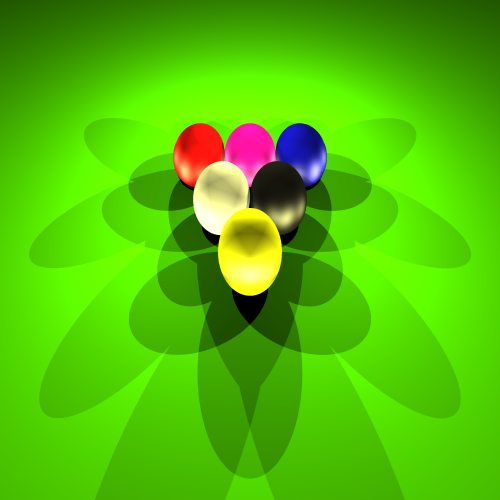
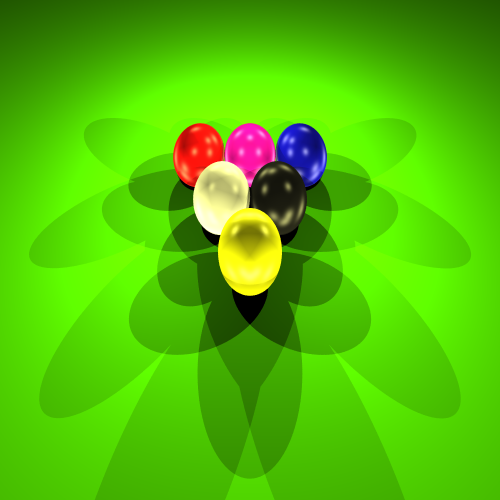
soft shadows

Changed region(s): [[0.33, 0.24, 0.66, 0.48], [0.45, 0.51, 0.57, 0.57], [0.6, 0.24, 0.63, 0.27]]

diff --git a/src/Objects/Light.java b/src/Objects/Light.java
@@ -1,6 +1,12 @@
 package Objects;
 
 import java.awt.Color;
+import java.util.ArrayList;
+import java.util.Random;
+import RayTracing.RayTracer;
+
+
+import javax.imageio.ImageIO;
 
 public class Light {
 	private Point position;
@@ -92,7 +98,50 @@ public class Light {
 
 		return (float) (surface.getMaterial().sb * Math.pow(rayFromViewer.getVector().dotProduct(R.getVector()), surface.getMaterial().getPhong())*this.getB()*specularIntensity);
 	}
-
+	
+	public float computeSoftShadowsCoef(Scene scene, Point point, Surface surface, Ray rayToLight)
+	{
+		int N = scene.getShadowRaysNumber();
+		Vector v = new Vector(2,6,7);
+		
+		Vector vertical = v.crossProduct(rayToLight.getVector());
+		
+		float distance = position.FindDistanceFromPoint(point);
+		
+		Screen screen = RayTracer.calculateScreen(this.position, point, this.lightRadius, distance, vertical, scene.getShadowRaysNumber(), scene.getShadowRaysNumber());
+		
+		ArrayList<Ray> rays = new ArrayList<Ray>();
+		int counter = 0;
+		for (int i = 0; i < scene.getShadowRaysNumber(); i++) {
+			for (int j = 0; j < scene.getShadowRaysNumber(); j++) {
+				
+				float xNoise = random.nextFloat() * (screen.getPixelSize());
+				float yNoise = random.nextFloat() * (screen.getPixelSize());
+				
+				Ray right = new Ray(screen.getUpperLeft(), screen.getHorizontal());
+				Point screenRight = right.getPointOnRayByDistance(screen.getPixelSize() * i + xNoise);
+				
+				Ray down = new Ray(screenRight, screen.getVertical());
+				Point screenPoint = down.getPointOnRayByDistance(screen.getPixelSize() * j + yNoise);
+				
+				Vector direction = new Vector(position, point);
+				Ray ray = new Ray(position, direction);
+				
+				boolean isInterfered = false;
+				for (Surface surface1 : scene.getSurfaces())
+				{
+					if ( surface1.findClosestIntesectionWithRay(rayToLight) != null)
+					{
+						counter++;
+						break;
+					}
+				}
+			}
+		}
+		
+		return counter / (N*N);
+	}
+	
 	public float getR() {
 		return r;
 	}

diff --git a/src/RayTracing/RayTracer.java b/src/RayTracing/RayTracer.java
@@ -378,7 +378,7 @@ public class RayTracer {
 		Vector horizontal = toward.crossProduct(vertical);
 		Ray in = new Ray(camera, toward);
 		Point screenMiddle = in.getPointOnRayByDistance(distance);
-		float pixelSize = width / horizontalPixels;
+		float pixelSize = width / horizontalPixels;	
 		Ray left = new Ray(screenMiddle, horizontal);
 		Point screenMiddleLeft = left.getPointOnRayByDistance((horizontalPixels / 2) * pixelSize);
 		Ray up = new Ray(screenMiddleLeft, vertical);

diff --git a/src/Objects/Vector.java b/src/Objects/Vector.java
@@ -11,6 +11,14 @@ public class Vector {
 		this.z = z;
 		normalize();
 	}
+	
+	public Vector(Point from, Point to) {
+		this.x = to.getX() - from.getX();
+		this.y = to.getY() - from.getY();
+		this.z = to.getZ() - from.getZ();
+		normalize();
+	}
+	
 	public float getX() {
 		return x;
 	}
